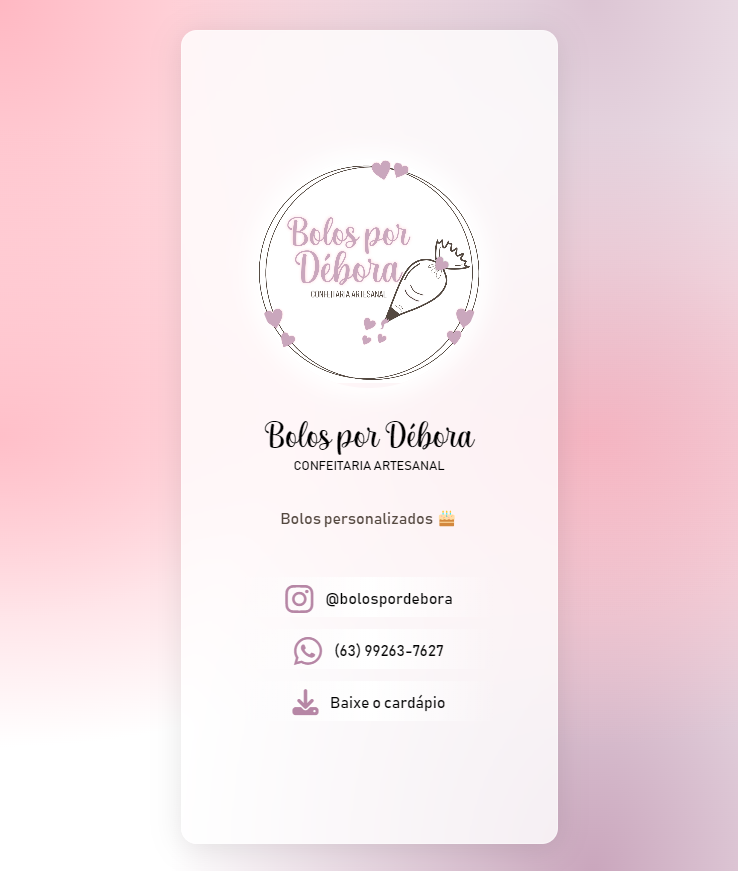
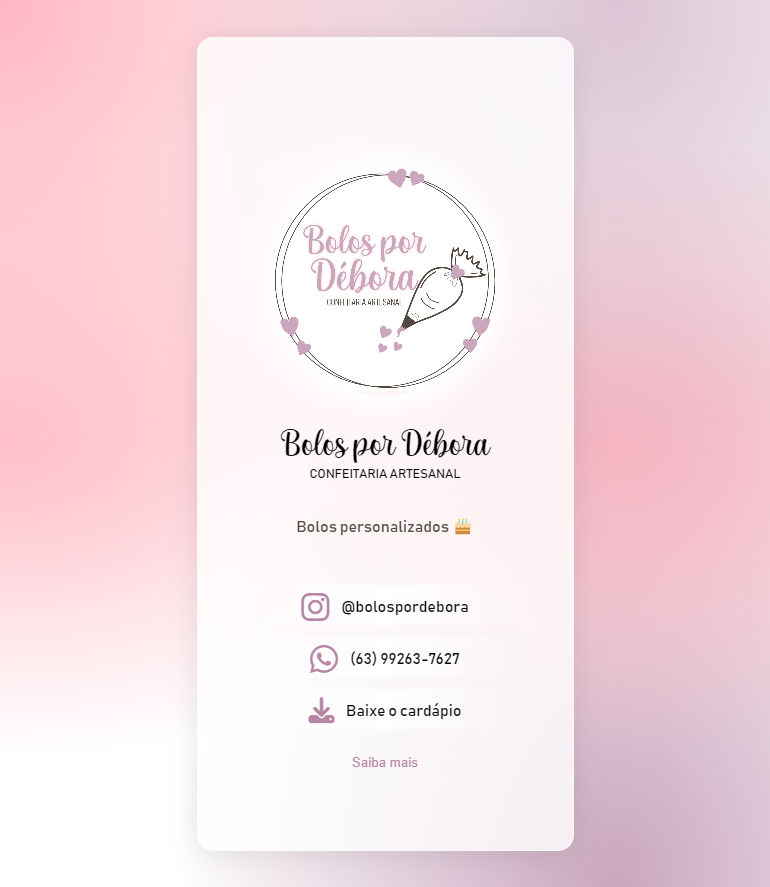
Show more button

diff --git a/style.css b/style.css
@@ -44,9 +44,8 @@ body {
 
 main {
     width: 375px;
-    height: 812px;
+    height: min(100%, 812px);
     position: relative;
-    /* From https://css.glass */
     background: rgba(255, 255, 255, 0.8);
     border-radius: 16px;
     box-shadow: 0 4px 30px rgba(0, 0, 0, 0.1);
@@ -56,13 +55,13 @@ main {
 }
 
 .container {
-    /* position: relative; */
     max-width: 250px;
+    height: 100%;
     margin-left: auto;
     margin-right: auto;
     text-align: center;
-
     color: var(--black);
+    border: 1px solid transparent;
 }
 
 .avatar {
@@ -116,13 +115,13 @@ a {
     align-items: center;
 }
 
-p {
+p#userBio {
     margin-top: 2rem;
     font-size: 1rem;
     color: var(--brown);
 }
 
-ul {
+ul#socialLinks {
     margin-top: 3rem;
 
     list-style: none;
@@ -133,6 +132,7 @@ ul {
     flex-direction: column;
 
     justify-content: center;
+    margin-bottom: 16px;
 }
 
 li {
@@ -152,6 +152,91 @@ li.cardapiolink i {
     font-size: 1.6rem;
 }
 
+
+button#learnMoreButton {
+    background-color: transparent;
+    border: transparent;
+    color: var(--purple);
+    cursor: pointer;
+    padding: 10px;
+}
+
+.learnMoreModal {
+    position: fixed;
+    inset: 0;
+    z-index: 10;
+    display: flex;
+    align-items: center;
+    justify-content: center;
+
+    opacity: 0;
+    visibility: hidden;
+}
+
+.learnMoreModal.open {
+    opacity: 1;
+    visibility: visible;
+    animation: fadeInAndBorder 0.3s 1 both;
+}
+
+/* @keyframes fadeInAndBorder {
+    0% {
+        opacity: 0;
+    }
+    100% {
+        opacity: 1;
+    }
+} */
+
+.learnMoreModal .background {
+    backdrop-filter: blur(10px);
+    position: absolute;
+    inset: 0;
+    background-color: rgba(0, 0, 0, 0.2);
+}
+
+.learnMoreModal .content {
+    width: min(100%, 450px);
+    display: flex;
+    flex-direction: column;
+    gap: 40px;
+    z-index: 5;
+    position: relative;
+}
+
+#learnMoreCloseButton {
+    display: flex;
+    align-items: center;
+    justify-content: center;
+    width: fit-content;
+    width: 48px;
+    height: 48px;
+    color: white;
+    background-color: transparent;
+    border: none;
+    cursor: pointer;
+    font-size: 24px;
+
+    position: absolute;
+    bottom: 100%;
+    right: 0;
+}
+
+#learnMoreCloseButton i {
+    filter: drop-shadow(0 0 2px rgba(0, 0, 0, 0.5));
+}
+
+.learnMoreModal .item {
+    background-color: rgba(255, 255, 255, 0.9);
+    padding: 20px;
+    border-radius: 20px;
+}
+
+.learnMoreModal .item h3 {
+    font-size: 20px;
+    font-weight: bold;
+    margin-bottom: 16px;
+}
 
 .cardapio {
     border: 1px solid red;

diff --git a/index.html b/index.html
@@ -84,42 +84,37 @@
                         </a>
                     </li>
                 </ul>
+
+
+                <button id="learnMoreButton">Saiba mais</button>
             </div>
 
-            <!-- <div class="cardapio">
-                <div class="header">
-                    <a class="header-left" href="https://www.instagram.com/bolospordebora">
-                        <span>Instagram</span>
-                        <span>@bolospordebora</span>
-                        <i class="fa-brands fa-instagram"></i>
-                    </a>
-
-                    <img
-                        src="./images/logo.png"
-                        alt="Foto Bolos por Débora"
-                        id="userImage"
-                    />
-
-                    <a class="header-right" href="https://api.whatsapp.com/send/?phone=5563992637627&text&type=phone_number&app_absent=0">
-                        <span>Whatsapp</span>
-                        <span>(63) 99263-7627</span>
-                        <i class="fa-brands fa-whatsapp"></i>
-                    </a>
-                </div>
-
-                <section class="section1">
-                    <div class="section1-left">
-
-                    </div>
-
-                    <div class="section1-right">
-
-                    </div>
-                </section>
-
-
-            </div> -->
         </main>
+
+        <div class="learnMoreModal">
+            <span class="background"></span>
+
+            <div class="content">
+                <button id="learnMoreCloseButton">
+                    <i class="fa-solid fa-xmark"></i>
+                </button>
+
+                <div class="item">
+                    <h3>Missão</h3>
+                    <p>
+                        Oferecer bolos personalizados de qualidade para adoçar a vida das pessoas.
+                    </p>
+                </div>
+                
+                <div class="item">
+                    <h3>Visão</h3>
+                    <p>
+                        Ser referência em bolos personalizados na cidade de Palmas e ampliar a empresa,
+                        mantendo sempre o padrão de qualidade e satisfação do cliente.
+                    </p>
+                </div>
+            </div>
+        </div>
 
         <script src="main.js"></script>
     </body>

diff --git a/main.js b/main.js
@@ -28,3 +28,26 @@ function getGitHubProfileInfos(){
 }
 
 // getGitHubProfileInfos()
+
+
+// open close modal
+const learnMoreButton = document.getElementById("learnMoreButton")
+const learnMoreModal = document.querySelector(".learnMoreModal")
+const learnMoreCloseButton = document.getElementById("learnMoreCloseButton")
+
+
+let isOpenModal = false;
+
+const openModal = () => {
+    isOpenModal = true;
+    learnMoreModal.classList.add("open")
+}
+
+const closeModal = () => {
+    isOpenModal = false;
+    learnMoreModal.classList.remove("open")
+}
+
+
+learnMoreButton.addEventListener('click', openModal)
+learnMoreCloseButton.addEventListener('click', closeModal)
